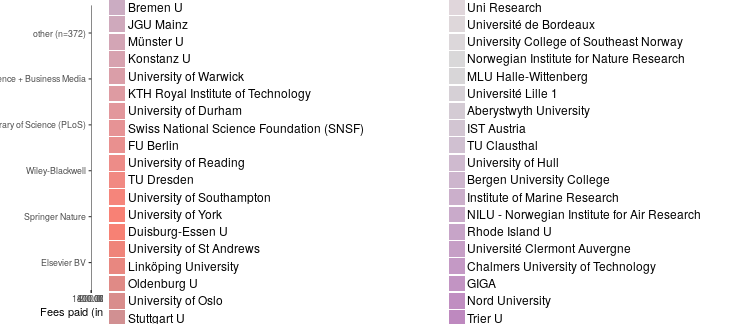
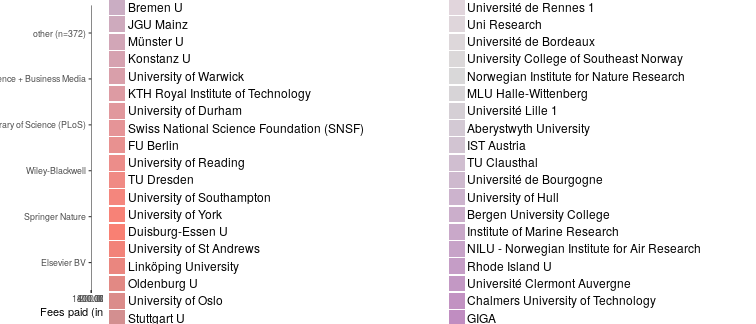
post: couperin additional data

Changed region(s): [[0.6085, 0.4938, 0.9431, 1.0], [0.6085, 0.0, 0.9127, 0.463]]

diff --git a/about.md b/about.md
@@ -176,7 +176,9 @@ The [Couperin consortium](https://couperin.org) aggregates data on APC expenditu
 - Université de Poitiers
 - Université de Rennes 1
 - Université de Toulon
+- Université Paris Descartes (Paris V)
 - Université Pierre et Marie Curie (Paris VI)
+
 ## Participating Institutions from the United Kingdom:
 
 - [Wellcome Trust](https://wellcome.ac.uk/funding/managing-grant/open-access-policy)
@@ -255,13 +257,13 @@ Jisc Collections released data on APC payments made by UK higher education insti
 
 Information on both open access journal articles and open access publication of articles in toll-access journals ("hybrid") are provided.
 
-In total,  104 842 463 € for  55 548 articles were paid by the participating unviversities. Average  fee is 1 887.4 € and the median 1 684 €.
+In total,  104 916 987 € for  55 599 articles were paid by the participating unviversities. Average  fee is 1 887 € and the median 1 683 €.
 
 ### Open Access Journals
 
 
 
-At the moment, the dataset releases information on 33 085 articles in open access journals which charge publication fees. Total expenditure amounts to  49 122 439 €. Average  fee is 1 484.7 € and the median 1 409 €.
+At the moment, the dataset releases information on 33 127 articles in open access journals which charge publication fees. Total expenditure amounts to  49 179 985 €. Average  fee is 1 484.6 € and the median 1 409 €.
 
 View dataset on [GitHub](https://github.com/OpenAPC/openapc-de/blob/master/data/apc_de.csv).
 
@@ -400,7 +402,7 @@ View dataset on [GitHub](https://github.com/OpenAPC/openapc-de/blob/master/data/
 |Universitat de Barcelona                                        |      464|           443,269|           955|    899|
 |Université Clermont Auvergne                                    |       14|            22,368|         1,598|  1,350|
 |Université de Bordeaux                                          |       18|            25,745|         1,430|  1,258|
-|Université de Bourgogne                                         |        7|             9,568|         1,367|  1,285|
+|Université de Bourgogne                                         |       14|            19,358|         1,383|  1,275|
 |Université de Lorraine                                          |       20|            24,914|         1,246|  1,128|
 |Université de Poitiers                                          |        2|             2,948|         1,474|  1,474|
 |Université de Rennes 1                                          |       20|            26,569|         1,328|  1,202|
@@ -409,6 +411,7 @@ View dataset on [GitHub](https://github.com/OpenAPC/openapc-de/blob/master/data/
 |Université Lille 1                                              |       11|            15,099|         1,373|  1,266|
 |Université Lille 2                                              |       21|            29,150|         1,388|  1,256|
 |Université Nice-Sophia-Antipolis                                |        1|             1,202|         1,202|  1,202|
+|Université Paris Descartes (Paris V)                            |       35|            47,757|         1,364|  1,301|
 |Université Pierre et Marie Curie (Paris VI)                     |       32|            50,846|         1,589|  1,396|
 |University College of Southeast Norway                          |       19|            19,107|         1,006|    907|
 |University College West                                         |        6|             4,868|           811|    729|
@@ -460,7 +463,7 @@ View dataset on [GitHub](https://github.com/OpenAPC/openapc-de/blob/master/data/
 
 
 In many toll-access journals some of the articles are open access after a fee has been paid. This model is often called "hybrid open access".
-The dataset covers 22 463 hybrid open access articles. Total expenditure amounts to  55 720 024 €. Average  fee is 2 480.5 € and the median 2 441 €.
+The dataset covers 22 472 hybrid open access articles. Total expenditure amounts to  55 737 002 €. Average  fee is 2 480.3 € and the median 2 440 €.
 
 The following institutions have contributed its expenditures for hybrid open access.
 
@@ -545,6 +548,7 @@ The following institutions have contributed its expenditures for hybrid open acc
 |Université Grenoble Alpes                                   |        1|               350|           350|    350|
 |Université Lille 1                                          |        5|            14,411|         2,882|  2,959|
 |Université Lille 2                                          |        1|             3,977|         3,977|  3,977|
+|Université Paris Descartes (Paris V)                        |        9|            16,978|         1,886|  2,033|
 |Université Pierre et Marie Curie (Paris VI)                 |        5|            12,458|         2,492|  2,275|
 |University College West                                     |        4|             8,395|         2,099|  2,022|
 |University of Aberdeen                                      |       34|           101,418|         2,983|  2,809|

diff --git a/_posts/2018-09-05-couperin.md b/_posts/2018-09-05-couperin.md
@@ -1,0 +1,58 @@
+---
+layout:     post
+author:     Christoph Broschinski
+author_lnk: https://github.com/cbroschinski
+title:      Couperin.org provides additional APC data for two institutions
+date:       2018-09-05 08:00:00
+summary:    
+categories: [general, openAPC]
+comments: true
+---
+
+
+
+
+The [Couperin consortium](https://couperin.org) collects data on APC expenditures from universities and other research institutions in France. The latest data delivery contains additional articles for the Université de Bourgogne and an initial data set for the Université Paris Descartes.
+
+Contact Persons for Couperin are [Valerie Larroque](mailto:valerie.larroque@couperin.org) and [Sandrine Malotaux](mailto:sandrine.malotaux@inp-toulouse.fr).
+
+## Cost data
+
+
+
+The new data set provided by Couperin covers publication fees for 51 articles published in 2015. Total expenditure amounts to 74 524€ and the average fee is 1 461€.
+
+The data originates from the Université de Bourgogne (Update) and the Université Paris Descartes (Initial data).
+
+
+
+|                                                            | Articles| Fees paid in EURO| Mean Fee paid|
+|:-----------------------------------------------------------|--------:|-----------------:|-------------:|
+|Frontiers Media SA                                          |       14|             17460|          1247|
+|Public Library of Science (PLoS)                            |        8|             10472|          1309|
+|Springer Nature                                             |        7|             11276|          1611|
+|Association for Research in Vision and Ophthalmology (ARVO) |        5|              8150|          1630|
+|Oxford University Press (OUP)                               |        3|              6300|          2100|
+|Elsevier BV                                                 |        3|              2755|           918|
+|MDPI AG                                                     |        2|              1676|           838|
+|Scientific Research Publishing, Inc,                        |        1|               890|           890|
+|Impact Journals, LLC                                        |        1|              2850|          2850|
+|Institute of Electrical & Electronics Engineers (IEEE)      |        1|              2033|          2033|
+|Ovid Technologies (Wolters Kluwer Health)                   |        1|              2641|          2641|
+|Proceedings of the National Academy of Sciences             |        1|              2530|          2530|
+|SAGE Publications                                           |        1|               252|           252|
+|Society for Neuroscience                                    |        1|              1569|          1569|
+|The American Association of Immunologists                   |        1|              2385|          2385|
+|Wiley-Blackwell                                             |        1|              1284|          1284|
+
+## Overview
+
+A detailed analysis of the contributed data provides the following overview:
+
+### Fees paid per publisher (in EURO)
+
+![plot of chunk tree_couperin_2018_09_05_full](/figure/tree_couperin_2018_09_05_full-1.png)
+
+###  Average costs per publisher (in EURO)
+
+![plot of chunk box_couperin_2018_09_05_publisher_full](/figure/box_couperin_2018_09_05_publisher_full-1.png)
